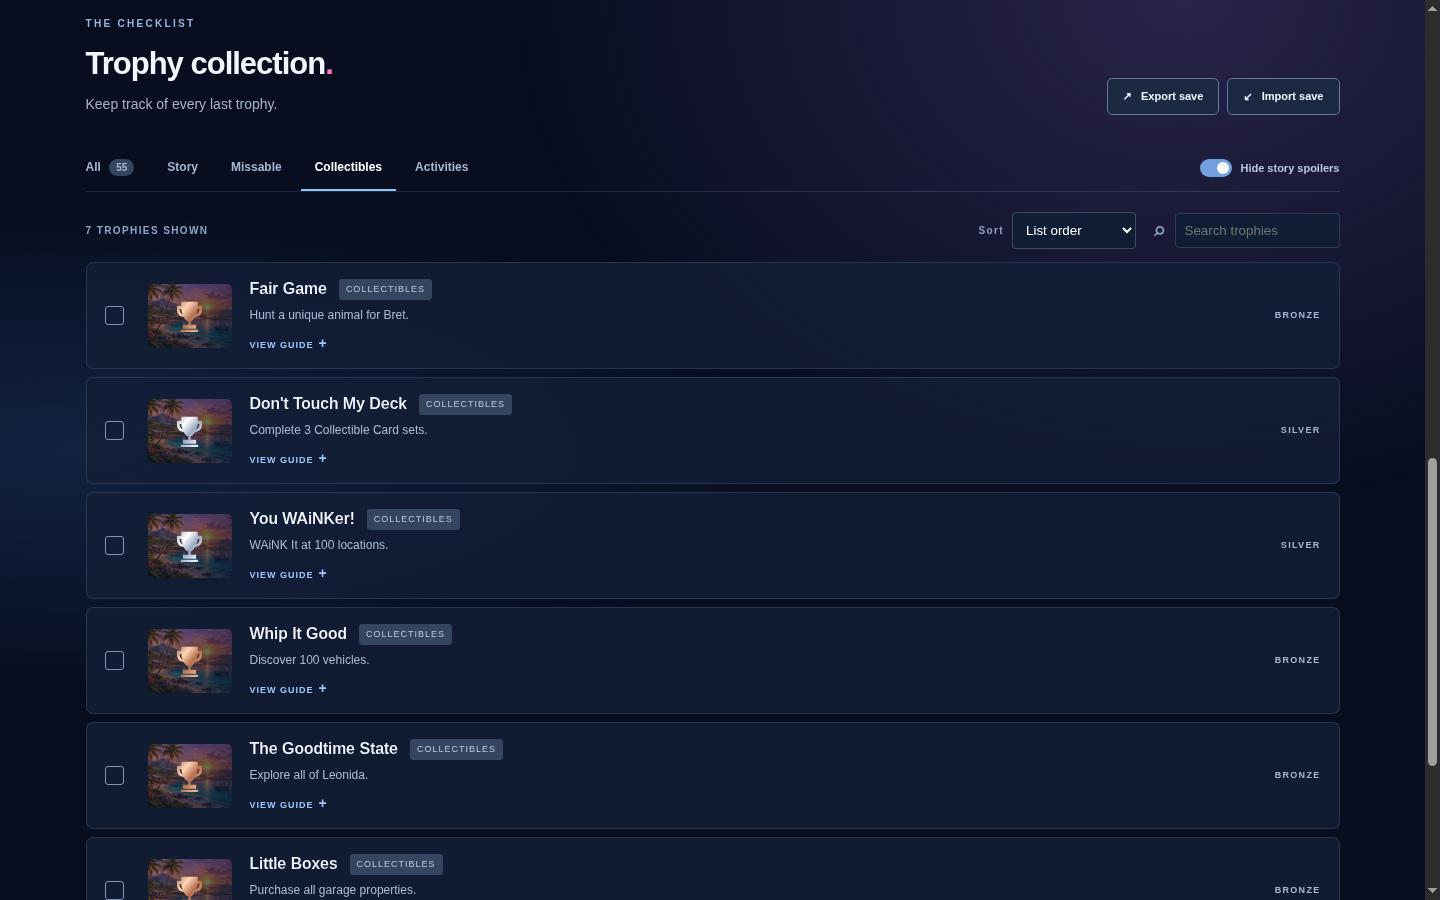
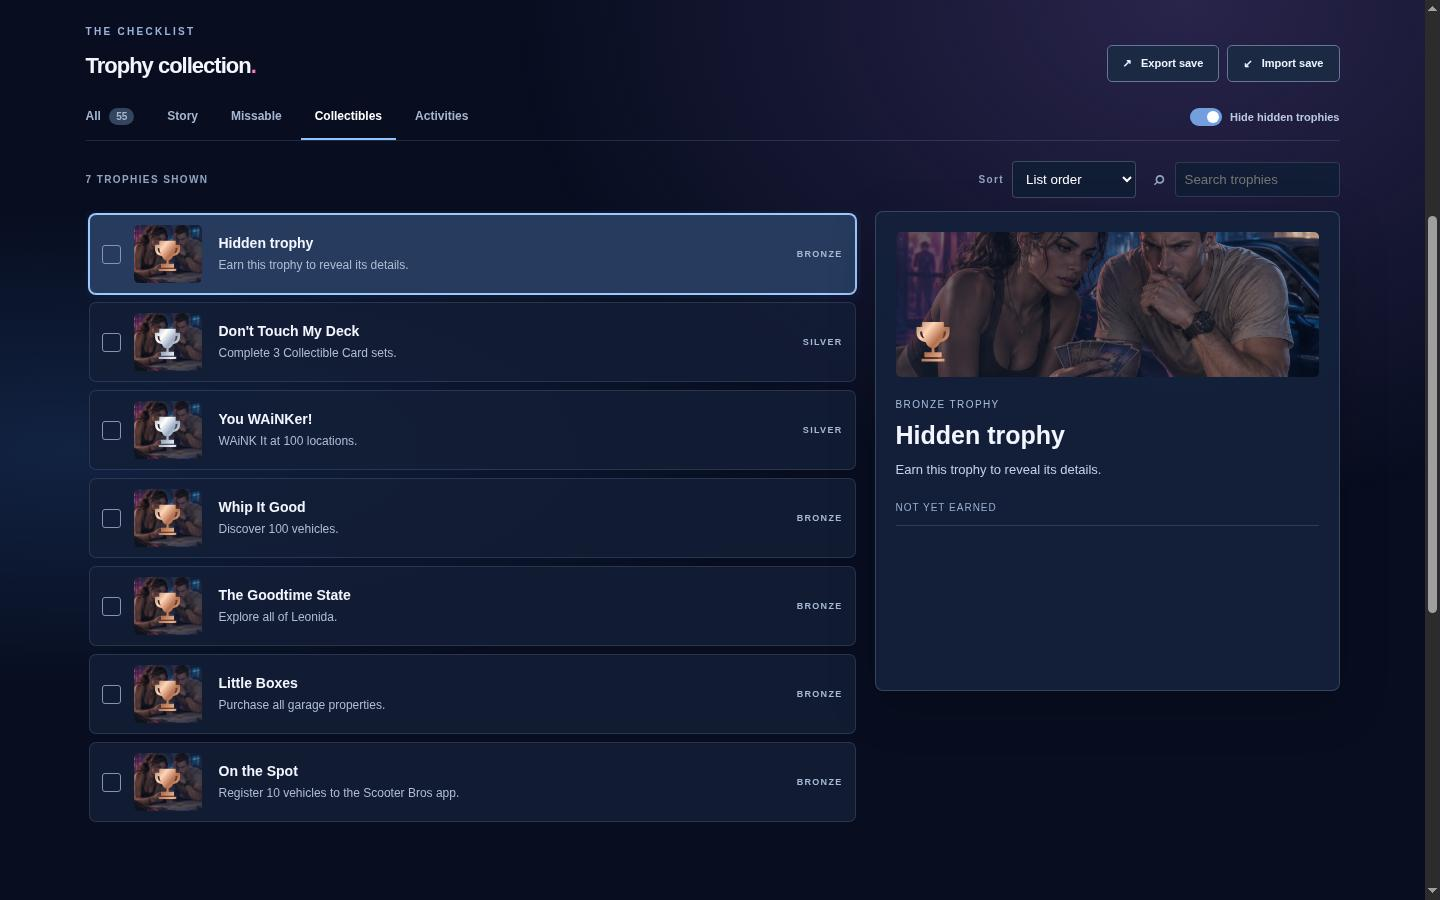
Build focused trophy collection and hide spoiler trophies

diff --git a/app/app.js b/app/app.js
@@ -7,6 +7,7 @@ const message = document.querySelector('#message');
 let trophies = [];
 let earned = new Set();
 let filter = 'all';
+let selectedId = 1;
 
 try {
   const saved = JSON.parse(localStorage.getItem(STORAGE_KEY) || '{}');
@@ -47,14 +48,14 @@ function render() {
   }
   const query = search.value.trim().toLowerCase();
   const visible = trophies.filter(trophy => {
-    const hidden = spoilerToggle.checked && trophy.kind === 'story' && !earned.has(trophy.id);
+    const hidden = spoilerToggle.checked && trophy.hidden && !earned.has(trophy.id);
     const matchesFilter = filter === 'all' || (filter === 'missable' ? trophy.missable : trophy.kind === filter);
-    const searchable = hidden ? 'hidden story trophy' : `${trophy.name} ${trophy.description} ${trophy.guide}`.toLowerCase();
+    const searchable = hidden ? 'hidden trophy' : `${trophy.name} ${trophy.description} ${trophy.guide}`.toLowerCase();
     return matchesFilter && searchable.includes(query);
   });
   if (sort.value === 'name') visible.sort((first, second) => {
-    const firstHidden = spoilerToggle.checked && first.kind === 'story' && !earned.has(first.id);
-    const secondHidden = spoilerToggle.checked && second.kind === 'story' && !earned.has(second.id);
+    const firstHidden = spoilerToggle.checked && first.hidden && !earned.has(first.id);
+    const secondHidden = spoilerToggle.checked && second.hidden && !earned.has(second.id);
     return (firstHidden ? '' : first.name).localeCompare(secondHidden ? '' : second.name);
   });
   if (sort.value === 'grade') {
@@ -66,48 +67,60 @@ function render() {
   list.replaceChildren();
   if (!visible.length) {
     list.append(element('div', 'empty', filter === 'missable' ? 'No potentially missable trophies match your search.' : 'No trophies match your search.'));
+    document.querySelector('#trophy-detail').replaceChildren();
     return;
   }
+  if (!visible.some(trophy => trophy.id === selectedId)) selectedId = visible[0].id;
   for (const trophy of visible) {
     const isEarned = earned.has(trophy.id);
-    const hidden = spoilerToggle.checked && trophy.kind === 'story' && !isEarned;
-    const row = element('article', `trophy ${isEarned ? 'is-earned' : ''}`);
+    const hidden = spoilerToggle.checked && trophy.hidden && !isEarned;
+    const row = element('article', `trophy kind-${trophy.kind} ${isEarned ? 'is-earned' : ''} ${selectedId === trophy.id ? 'is-selected' : ''}`);
     const check = element('label', 'check');
     const input = document.createElement('input');
     input.type = 'checkbox';
     input.checked = isEarned;
-    input.setAttribute('aria-label', hidden ? 'Mark hidden story trophy earned' : `Mark ${trophy.name} earned`);
+    input.setAttribute('aria-label', hidden ? 'Mark hidden trophy earned' : `Mark ${trophy.name} earned`);
     input.addEventListener('change', () => { input.checked ? earned.add(trophy.id) : earned.delete(trophy.id); save(); render(); });
     check.append(input, element('span', 'checkmark', '✓'));
     const icon = element('div', `trophy-icon ${trophy.grade}`);
     icon.append(element('span', 'cup'));
-    row.classList.add(`kind-${trophy.kind}`);
-    const content = element('div', 'trophy-content');
-    const title = element('div', 'trophy-title');
-    title.append(element('h3', '', hidden ? 'Hidden story trophy' : trophy.name), element('span', 'category', trophy.kind));
-    content.append(title, element('p', 'description', hidden ? 'Earn this trophy to reveal its details.' : trophy.description));
-    if (!hidden) {
-      const details = document.createElement('details');
-      const summary = element('summary', '', 'VIEW GUIDE');
-      const guide = element('div', 'guide');
-      guide.append(element('p', '', trophy.guide));
-      const sources = element('p', 'source', 'SOURCES  ·  ');
-      trophy.sources.forEach((source, index) => {
-        if (index) sources.append(document.createTextNode('  ·  '));
-        const link = element('a', '', source.name);
-        link.href = source.url;
-        link.target = '_blank';
-        link.rel = 'noopener noreferrer';
-        sources.append(link);
-      });
-      guide.append(sources, element('p', 'source', `MISSABILITY  ·  ${trophy.missableStatus}`));
-      details.append(summary, guide);
-      content.append(details);
-    }
-    const grade = element('div', 'grade-label', trophy.grade);
-    row.append(check, icon, content, grade);
+    const content = element('button', 'row-select');
+    content.type = 'button';
+    content.setAttribute('aria-pressed', String(selectedId === trophy.id));
+    content.append(element('h3', '', hidden ? 'Hidden trophy' : trophy.name), element('p', 'description', hidden ? 'Earn this trophy to reveal its details.' : trophy.description));
+    content.addEventListener('click', () => { selectedId = trophy.id; render(); document.querySelector('.is-selected .row-select')?.focus(); });
+    row.append(check, icon, content, element('div', 'grade-label', trophy.grade));
     list.append(row);
   }
+  const selected = visible.find(trophy => trophy.id === selectedId);
+  const hidden = spoilerToggle.checked && selected.hidden && !earned.has(selected.id);
+  const detail = document.querySelector('#trophy-detail');
+  detail.replaceChildren();
+  const detailArt = element('div', `detail-art kind-${selected.kind}`);
+  const detailCup = element('div', `detail-cup ${selected.grade}`);
+  detailCup.append(element('span', 'cup'));
+  detailArt.append(detailCup);
+  detail.append(detailArt, element('div', 'detail-grade', `${selected.grade} trophy`), element('h2', '', hidden ? 'Hidden trophy' : selected.name), element('p', 'detail-description', hidden ? 'Earn this trophy to reveal its details.' : selected.description), element('p', 'detail-status', earned.has(selected.id) ? 'EARNED' : 'NOT YET EARNED'));
+  if (!hidden) {
+    const details = document.createElement('details');
+    details.open = true;
+    const summary = element('summary', '', 'GUIDE & SOURCES');
+    const guide = element('div', 'guide');
+    guide.append(element('p', '', selected.guide));
+    const sources = element('p', 'source', 'SOURCES  ·  ');
+    selected.sources.forEach((source, index) => {
+      if (index) sources.append(document.createTextNode('  ·  '));
+      const link = element('a', '', source.name);
+      link.href = source.url;
+      link.target = '_blank';
+      link.rel = 'noopener noreferrer';
+      sources.append(link);
+    });
+    guide.append(sources, element('p', 'source', `MISSABILITY  ·  ${selected.missableStatus}`));
+    details.append(summary, guide);
+    detail.append(details);
+  }
+
 }
 
 document.querySelectorAll('[data-filter]').forEach(button => button.addEventListener('click', () => {

diff --git a/app/index.html b/app/index.html
@@ -24,9 +24,9 @@
       <section class="progress-panel" aria-label="Trophy progress"><div><span class="section-kicker">YOUR JOURNEY</span><h2>Your trophy progress.</h2><p>Saved on this device, ready when you are.</p></div><div class="progress-main"><div class="progress-number"><strong id="earned">0</strong><span> / 55<br><small>TROPHIES EARNED</small></span></div><div class="progress-track"><div id="progress-bar"></div></div></div><div class="grade-counts" id="grade-counts"></div></section>
       <section class="roadmap" id="roadmap"><div class="section-heading"><div><span class="section-kicker">THE BIG PICTURE</span><h2>The road to platinum.</h2></div><p>The trophy list comes from the competition kit’s November 18, 2026 freeze and has not been independently verified in-game. Roadmap details are unconfirmed.</p></div><div class="stages"><article><span>01 / STORY</span><h3>Start the journey</h3><p>Follow the main story and watch for named mission milestones. PowerPyx’s chapter and final-mission sequence contains a conflict, so the precise order is unconfirmed.</p></article><article><span>02 / EXPLORE</span><h3>See the state</h3><p>Try activities, win 20 different races, finish 250 stunts and use WAiNK It at 100 locations. Build three card sets.</p></article><article><span>03 / CLEAN UP</span><h3>Finish the threads</h3><p>Complete eight stranger strands and the named final missions. Work toward 100% completion and clear remaining trophies.</p></article><article><span>04 / PLATINUM</span><h3>Become a legend</h3><p>Earn the other 54 trophies to complete the collection and claim Vice Got a Price!</p></article></div><p class="notice"><strong>Missability is unconfirmed.</strong> PowerPyx flags the Chapter 1 Jason-house balcony meditation as potentially missable. Whether that session is required for the trophy remains unconfirmed.</p></section>
       <section class="tracker" id="tracker"><div class="section-heading tracker-heading"><div><span class="section-kicker">THE CHECKLIST</span><h2>Trophy collection<span class="period">.</span></h2><p>Keep track of every last trophy.</p></div><div class="file-actions"><button id="export" class="outline-button">↗ &nbsp; Export save</button><button id="import-button" class="outline-button">↙ &nbsp; Import save</button><input id="import-file" type="file" accept="application/json,.json" hidden></div></div>
-        <div class="toolbar"><div class="filters" aria-label="Filter trophies"><button class="selected" data-filter="all">All <span>55</span></button><button data-filter="story">Story</button><button data-filter="missable">Missable</button><button data-filter="collectibles">Collectibles</button><button data-filter="activities">Activities</button></div><label class="spoiler"><input type="checkbox" id="spoilers" checked><span class="toggle"></span> Hide story spoilers</label></div>
+        <div class="toolbar"><div class="filters" aria-label="Filter trophies"><button class="selected" data-filter="all">All <span>55</span></button><button data-filter="story">Story</button><button data-filter="missable">Missable</button><button data-filter="collectibles">Collectibles</button><button data-filter="activities">Activities</button></div><label class="spoiler"><input type="checkbox" id="spoilers" checked><span class="toggle"></span> Hide hidden trophies</label></div>
         <div class="list-meta"><span id="result-count">ALL TROPHIES</span><div class="list-controls"><label class="sort">Sort <select id="sort"><option value="list">List order</option><option value="name">Name</option><option value="grade">Grade</option><option value="progress">Unearned first</option></select></label><label class="search"><span>⌕</span><input id="search" type="search" placeholder="Search trophies" aria-label="Search trophies"></label></div></div>
-        <div id="trophy-list" class="trophy-list" aria-live="polite"></div><p id="message" class="message" role="status"></p>
+        <div class="collection-layout"><div id="trophy-list" class="trophy-list" aria-live="polite"></div><aside id="trophy-detail" class="detail-panel" aria-live="polite"></aside></div><p id="message" class="message" role="status"></p>
       </section>
     </main><footer><span class="brand-footer">LEONIDA <b>VI</b> TROPHY GUIDE</span><span>MADE FOR THE JOURNEY. SAVED ON YOUR DEVICE.</span><a href="#top">BACK TO TOP ↑</a></footer>
   </div>

diff --git a/app/style.css b/app/style.css
@@ -153,3 +153,30 @@ footer{gap:20px;flex-wrap:wrap}
 .stages article:nth-child(3){background-image:linear-gradient(0deg,#101a30 0%,#101a30 34%,transparent 100%),url('assets/jason.jpg');background-position:center 30%}
 .kind-story .trophy-icon{background-image:linear-gradient(135deg,#16243e35,#0c132aba),url('assets/lucia.jpg');background-position:center 28%}
 .kind-activities .trophy-icon{background-image:linear-gradient(135deg,#16243e35,#0c132aba),url('assets/jason.jpg');background-position:center 28%}
+
+/* Console-inspired collection layout */
+main{display:flex;flex-direction:column}
+.hero{order:0;min-height:165px;margin:16px 0 10px}
+.hero-copy{padding:20px 30px;max-width:560px}
+.hero h1{font-size:32px;line-height:1.05;margin:8px 0}
+.hero-copy p{font-size:12px;margin:0;line-height:1.4}
+.hero-link{display:none}
+.guide-facts{order:1;margin:0 0 10px;padding:12px 18px}
+.progress-panel{order:2;margin:0;padding:14px 20px;min-height:0}
+.progress-panel h2{font-size:16px;margin:4px 0}.progress-panel p{display:none}
+.tracker{order:3;padding:20px 0 30px}.roadmap{order:4;padding:35px 0 55px}
+.tracker-heading h2{font-size:22px}.tracker-heading p{display:none}.toolbar{margin-top:12px}
+.collection-layout{display:grid;grid-template-columns:minmax(0,1.25fr) minmax(320px,.75fr);gap:14px;align-items:start}
+.trophy-list{max-height:620px;overflow:auto;padding:3px 5px 3px 3px}
+.trophy{grid-template-columns:20px 68px minmax(0,1fr) 60px;gap:12px;padding:9px 12px;min-height:80px}
+.trophy.is-selected{background:#263b5e;border-color:#9ccaff;box-shadow:0 0 0 1px #9ccaff,0 0 18px #538ae02b}
+.trophy-icon{width:68px;height:58px;background-image:linear-gradient(135deg,#16243e40,#0c132a80),url('assets/mission-thumb.jpg')}
+.kind-collectibles .trophy-icon,.kind-activities .trophy-icon{background-image:linear-gradient(135deg,#16243e40,#0c132a80),url('assets/mission-thumb.jpg')}
+.row-select{border:0;background:transparent;text-align:left;color:inherit;cursor:pointer;min-width:0;padding:5px}
+.row-select h3{font-size:14px}.row-select:focus-visible{outline:2px solid #b9d8ff;outline-offset:3px;border-radius:3px}
+.detail-panel{position:sticky;top:16px;min-height:480px;border:1px solid #a2bfe33d;border-radius:8px;background:rgba(20,33,58,.95);padding:20px;box-shadow:0 16px 50px #0003}
+.detail-art{height:145px;border-radius:5px;background:linear-gradient(90deg,#111e35a8,#111e3522),url('assets/mission-thumb.jpg') center 40%/cover;display:flex;align-items:flex-end;padding:14px}
+.detail-art.kind-story{background-image:linear-gradient(90deg,#111e35a8,#111e3522),url('assets/lucia.jpg')}
+.detail-cup .cup{width:46px;height:46px}.detail-grade{text-transform:uppercase;letter-spacing:1.4px;font-size:10px;color:#a8bedc;margin:20px 0 8px}.detail-panel h2{font-size:25px;line-height:1.2}.detail-description{color:#c5d1e3;font-size:13px;line-height:1.55;margin:10px 0}.detail-status{font-size:10px;letter-spacing:1px;color:#97acd0;padding:10px 0;border-bottom:1px solid #ffffff20}.detail-panel details{margin-top:16px}.detail-panel summary{cursor:pointer;color:#b6d5ff;font-size:11px;font-weight:bold;letter-spacing:1px}.detail-panel .guide{font-size:12px}
+@media(max-width:800px){.collection-layout{grid-template-columns:1fr}.detail-panel{position:static;min-height:0;grid-row:1}.trophy-list{max-height:none}.hero{min-height:155px}.hero h1{font-size:27px}}
+.hero-art{background-position:center 25%}
